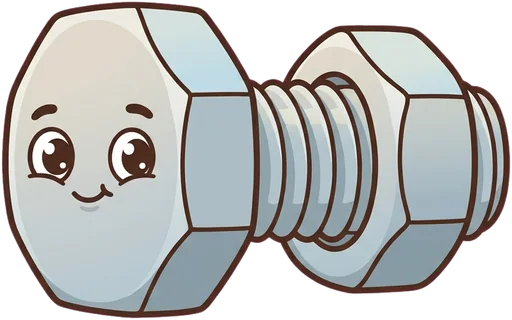
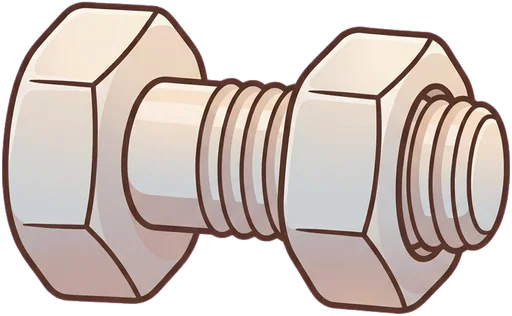
feat(junkyard): magnet words a step apart, four drifts and two mixes with fault calls, back-to-middle call, wagon wheel, owner's small junk pile, bolt and gear without faces

diff --git a/src/game/modes/junkyard-magnet.ts b/src/game/modes/junkyard-magnet.ts
@@ -18,20 +18,20 @@ const DIRS: Dir[] = ['left', 'right', 'up', 'down'];
 export const EDGE = 2;
 
 /**
- * The plates around the magnet at `place` and how hard each one's word is, never far apart: at the
- * centre the sideways ones are easy and up and down (which keep it there) two words; one step off the
- * way out is easy and the way back two words; two steps off only the way back (two words) and up and down.
+ * The plates around the magnet at `place` and how hard each one's word is, a step apart: the way out
+ * is an ordinary word, up and down (which keep it in place) a long one, and the way back to the centre
+ * a little harder still, two words. Two steps off there is no way out.
  */
 export function platesAt(place: number): Partial<Record<Dir, Ask>> {
   const off = Math.abs(place);
-  if (off === 0) return { left: 'easy', right: 'easy', up: 'two', down: 'two' };
+  if (off === 0) return { left: 'word', right: 'word', up: 'long', down: 'long' };
   const back: Dir = place < 0 ? 'right' : 'left', away: Dir = place < 0 ? 'left' : 'right';
-  if (off === 1) return { [away]: 'easy', [back]: 'two', up: 'normal', down: 'normal' };
-  return { [back]: 'two', up: 'normal', down: 'normal' };
+  if (off === 1) return { [away]: 'word', [back]: 'two', up: 'long', down: 'long' };
+  return { [back]: 'two', up: 'long', down: 'long' };
 }
 
-/** The broken controls move the magnet away by themselves after each quarter of the level (three times). */
-export const DRIFTS = 3;
+/** The broken controls move the magnet away by themselves after each fifth of the level (four times). */
+export const DRIFTS = 4;
 export function driftDue(done: number, count: number, drifts: number): boolean {
   return drifts < DRIFTS && done < count && done >= Math.ceil((count * (drifts + 1)) / (DRIFTS + 1));
 }
@@ -65,13 +65,13 @@ export type Places = Record<Dir, Dir>;
 export const OWN_PLACES: Places = { left: 'left', right: 'right', up: 'up', down: 'down' };
 
 /**
- * The plates get mixed up at two thirds of the level and once more before its end (at two words
- * before it, and at least one move after the first time). `mixedAt`: the words done at each mix so far.
+ * The plates get mixed up at half of the level and once more at three quarters (at least one move
+ * after the first time). `mixedAt`: the words done at each mix so far.
  */
 export function mixDue(done: number, count: number, mixedAt: number[]): boolean {
   if (done >= count) return false;
-  if (mixedAt.length === 0) return done >= Math.ceil((count * 2) / 3);
-  if (mixedAt.length === 1) return done >= Math.max(mixedAt[0] + 1, count - 2);
+  if (mixedAt.length === 0) return done >= Math.ceil(count / 2);
+  if (mixedAt.length === 1) return done >= Math.max(mixedAt[0] + 1, Math.ceil((count * 3) / 4));
   return false;
 }
 
@@ -207,10 +207,10 @@ function boltFallback(g: G, w: number, h: number): void {
  * a pile of screws and gears, on one of five places. Arrow plates around it carry words; a typed
  * plate moves it a step left or right, or lifts it up or dips it down and back. After each move it
  * pulls from the pile: a big piece over the centre, a small screw one step off, nothing at the edge.
- * Two steps off, the level's clock stands still until the magnet comes back. After each quarter of
- * the level the broken controls glide it away from the centre on their own. At two thirds of the
- * level and once more before its end the plates swirl round the magnet to mixed places, none on its
- * own side, so the child reads the arrow, not the side.
+ * Two steps off, the level's clock stands still until the magnet comes back. After each fifth of
+ * the level the broken controls glide it away from the centre on their own. At half of the level
+ * and at three quarters the plates swirl round the magnet to mixed places, none on its own side, so
+ * the child reads the arrow, not the side. Each fault calls out by the magnet.
  */
 export class MagnetMode extends HeroMode {
   readonly world = 'junkyard';
@@ -283,6 +283,7 @@ export class MagnetMode extends HeroMode {
     this.places = mixedPlaces(this.places, (list) => this.L.rng.pick(list));
     this.mixK = 0;
     this.L.sfx('pop');
+    this.fault();
     this.L.tweens.add(this.L.reduceMotion ? 0.01 : MIX_S, (k) => { this.mixK = k; }, ease.inOutQuad, () => {
       this.mixK = null;
       for (const p of this.plates) p.tg.selectable = true;
@@ -307,7 +308,7 @@ export class MagnetMode extends HeroMode {
       this.pull();
       if (this.done >= this.L.count) return this.end();
       const next = () => {
-        if (Math.abs(this.place) >= EDGE && hintAt(++this.edgeVisits)) this.L.say(t('story.magnetBack'), 4);
+        if (Math.abs(this.place) >= EDGE) this.atEdge();
         this.showPlates();
       };
       if (driftDue(this.done, this.L.count, this.drifts)) this.driftAway(next);
@@ -315,10 +316,25 @@ export class MagnetMode extends HeroMode {
     });
   }
 
+  /** At the edge: the first time he calls to come back, then the hint now and then. */
+  private atEdge(): void {
+    if (++this.edgeVisits === 1) {
+      const spot = this.heroSpot();
+      this.L.shout(t('story.magnetCentre'), spot.x, spot.y);
+    }
+    if (hintAt(this.edgeVisits)) this.L.say(t('story.magnetBack'), 4);
+  }
+
+  /** A fault of the controls calls out by the magnet. */
+  private fault(): void {
+    this.L.shout(pickLine('story.magnetFault'), this.magnetX, this.magnetY - MAGNET_H * 0.75);
+  }
+
   /** The controls break for a moment: the magnet hums and glides away from the centre on its own. */
   private driftAway(then: () => void): void {
     this.drifts++;
     this.L.sfx('bzzt');
+    this.fault();
     const to = this.L.rng.pick(driftPlaces(this.place));
     this.slide(to, MOVE_S + DRIFT_STEP_S * (Math.abs(to - this.place) - 1), then);
   }

diff --git a/src/game/modes/idle.test.ts b/src/game/modes/idle.test.ts
@@ -1149,24 +1149,24 @@ describe('the junkyard', () => {
     expect([0, 0.32, 1 / 3, 0.5, 2 / 3, 1].map(pileStage)).toEqual([0, 0, 1, 1, 2, 2]);
   });
 
-  it("the magnet's plates: easy sideways at the centre, the way out easy and the way back two words off it, no way out at the edge", async () => {
+  it("the magnet's plates: an ordinary word out, a long one up and down, two words back to the centre, no way out at the edge", async () => {
     const { platesAt, moved, pullAt } = await import('./junkyard-magnet');
-    expect(platesAt(0)).toEqual({ left: 'easy', right: 'easy', up: 'two', down: 'two' });
-    expect(platesAt(-1)).toEqual({ left: 'easy', right: 'two', up: 'normal', down: 'normal' });
-    expect(platesAt(1)).toEqual({ right: 'easy', left: 'two', up: 'normal', down: 'normal' });
-    expect(platesAt(-2)).toEqual({ right: 'two', up: 'normal', down: 'normal' });
-    expect(platesAt(2)).toEqual({ left: 'two', up: 'normal', down: 'normal' });
+    expect(platesAt(0)).toEqual({ left: 'word', right: 'word', up: 'long', down: 'long' });
+    expect(platesAt(-1)).toEqual({ left: 'word', right: 'two', up: 'long', down: 'long' });
+    expect(platesAt(1)).toEqual({ right: 'word', left: 'two', up: 'long', down: 'long' });
+    expect(platesAt(-2)).toEqual({ right: 'two', up: 'long', down: 'long' });
+    expect(platesAt(2)).toEqual({ left: 'two', up: 'long', down: 'long' });
     expect([moved(0, 'left'), moved(-1, 'left'), moved(1, 'up'), moved(2, 'down'), moved(-2, 'right')]).toEqual([-1, -2, 1, 2, -1]);
     expect([-2, -1, 0, 1, 2].map(pullAt)).toEqual([null, 'small', 'big', 'small', null]);
   });
 
-  it('the magnet drifts away from the centre on its own after each quarter of the level, three times', async () => {
+  it('the magnet drifts away from the centre on its own after each fifth of the level, four times', async () => {
     const { driftDue, driftPlaces } = await import('./junkyard-magnet');
     expect([2, 3].map((d) => driftDue(d, 12, 0))).toEqual([false, true]);
-    expect([5, 6, 9].map((d) => driftDue(d, 12, [5, 6, 9].indexOf(d) === 2 ? 2 : 1))).toEqual([false, true, true]);
-    expect([driftDue(11, 12, 3), driftDue(12, 12, 2)]).toEqual([false, false]);
+    expect([4, 5, 7, 8, 9, 10].map((d, i) => driftDue(d, 12, i < 2 ? 1 : i < 4 ? 2 : 3))).toEqual([false, true, false, true, false, true]);
+    expect([driftDue(11, 12, 4), driftDue(12, 12, 3)]).toEqual([false, false]);
     expect([driftPlaces(0), driftPlaces(-1), driftPlaces(1), driftPlaces(2)]).toEqual([[-2, -1, 1, 2], [-2, 2], [-2, 2], [-2]]);
-    // Played to its end, the magnet drifted off three times.
+    // Played to its end, the magnet drifted off four times.
     const L = levelRuntime(levelById('w6-3')!);
     const m = new MagnetMode(L);
     mode = m;
@@ -1178,16 +1178,16 @@ describe('the junkyard', () => {
         if (res.kind === 'done') m.onDone(res.target);
       }
     }
-    expect([m.progress(), (m as any).drifts]).toEqual([1, 3]);
+    expect([m.progress(), (m as any).drifts]).toEqual([1, 4]);
   });
 
-  it('the plates mix at two thirds and once more two words before the end, never on their own side or where they stood', async () => {
+  it('the plates mix at half and at three quarters of the level, never on their own side or where they stood', async () => {
     const { mixDue, mixedPlaces, OWN_PLACES } = await import('./junkyard-magnet');
-    expect([7, 8].map((d) => mixDue(d, 12, []))).toEqual([false, true]);
-    expect([9, 10, 11, 12].map((d) => mixDue(d, 12, [8]))).toEqual([false, true, true, false]);
-    expect(mixDue(11, 12, [8, 10])).toBe(false);
+    expect([5, 6].map((d) => mixDue(d, 12, []))).toEqual([false, true]);
+    expect([8, 9, 12].map((d) => mixDue(d, 12, [6]))).toEqual([false, true, false]);
+    expect(mixDue(11, 12, [6, 9])).toBe(false);
     // A short level: the second mix still comes a move after the first.
-    expect([mixDue(4, 6, []), mixDue(4, 6, [4]), mixDue(5, 6, [4])]).toEqual([true, false, true]);
+    expect([mixDue(3, 6, []), mixDue(4, 6, [4]), mixDue(5, 6, [4])]).toEqual([true, false, true]);
     const dirs = ['left', 'right', 'up', 'down'] as const;
     let before = OWN_PLACES;
     for (let i = 0; i < 20; i++) {

diff --git a/src/game/modes/junkyard-wake.ts b/src/game/modes/junkyard-wake.ts
@@ -70,10 +70,10 @@ const BIN_GAP = 100;
 /** The last bin is this far from the stage's right edge at least, and this far right of him at most (a wide stage keeps the scene together). */
 const BIN_EDGE = 70;
 const BIN_FROM_HERO = 900;
-/** The things that pop off the pile and their heights, each about its size next to the tire (the first two draw as a tire while a picture is missing). */
-const THINGS = ['obj-tire', 'obj-bike-wheel', 'obj-crate', 'obj-can', 'obj-spring', 'obj-nut', 'obj-screw'];
-const THING_INKS = ['#3a3a3e', '#3a3a3e', '#c08a52', '#b9c2cc', '#8a8f98', '#9aa0a8', '#a9b1bb'];
-const THING_H = [56, 64, 50, 34, 42, 24, 30];
+/** The things that pop off the pile and their heights, each about its size next to the tire (the first three, wheels, draw as a tire while a picture is missing). */
+const THINGS = ['obj-tire', 'obj-bike-wheel', 'obj-wagon-wheel', 'obj-crate', 'obj-can', 'obj-spring', 'obj-nut', 'obj-screw'];
+const THING_INKS = ['#3a3a3e', '#3a3a3e', '#8a5a32', '#c08a52', '#b9c2cc', '#8a8f98', '#9aa0a8', '#a9b1bb'];
+const THING_H = [56, 64, 66, 50, 34, 42, 24, 30];
 /** Seconds of a thing's hop off the pile and roll into its bin, and of a slipped thing's fall onto the pile. */
 const OUT_S = 1.6;
 const OUT_HOP = 0.6;
@@ -103,7 +103,7 @@ export function pileLayout(vw: number): { pile: number; bins: number[] } {
 
 /** A thing off the pile while its picture is missing: a tire, or a small rounded block in the thing's colour. */
 function thingFallback(kind: number) {
-  if (kind <= 1) return tireFallback;
+  if (kind <= 2) return tireFallback;
   return (g: G, w: number, h: number): void => {
     g.save();
     g.fillStyle = THING_INKS[kind];

diff --git a/src/game/modes/kit/ask.ts b/src/game/modes/kit/ask.ts
@@ -1,7 +1,7 @@
 import type { LevelRuntime } from '../../runtime';
 
-/** How hard a crossroads' activation word is, easiest first. */
-export const ASKS = ['tiny', 'easy', 'normal', 'two', 'twoLong', 'extreme'] as const;
+/** How hard a crossroads' activation word is, easiest first ('word': one of any length, 'long': the longest of three). */
+export const ASKS = ['tiny', 'easy', 'normal', 'word', 'long', 'two', 'twoLong', 'extreme'] as const;
 export type Ask = (typeof ASKS)[number];
 
 /** At a crossroads with an easier way out, this many slips in one word bring a slightly easier one instead (and a call to slow down). */
@@ -9,15 +9,22 @@ export const EASIER_AFTER = 2;
 
 /** An activation word of the asked difficulty. */
 export function askWord(L: LevelRuntime, ask: Ask): string {
-  const w = (n: number) => L.word(n, 1);
+  const w = (n: number | undefined) => L.word(n, 1);
   switch (ask) {
     case 'tiny': return w(2);
     case 'easy': return w(3);
     case 'normal': return w(5);
+    case 'word': return w(undefined);
+    case 'long': return longest([w(undefined), w(undefined), w(undefined)]);
     case 'two': return `${w(5)} ${w(5)}`;
     case 'twoLong': return `${w(8)} ${w(8)}`;
     case 'extreme': return L.word(undefined, 4, 3);
   }
+}
+
+/** The longest of the words, the first of equal ones. */
+function longest(words: string[]): string {
+  return words.reduce((a, b) => (b.length > a.length ? b : a));
 }
 
 /** One step down the ladder (the easiest stays). */

diff --git a/assets-src/PROMPTS.md b/assets-src/PROMPTS.md
@@ -59,8 +59,8 @@ Notes from real Gemini runs; add new ones here.
 - A crate that a game must fill from the side: an "open top" prompt drew a plain open box. Ask for the closed object seen from the front-left and say nothing about the hidden side; Gemini then draws no right wall.
 - A motion word on an object ("bouncing", "running") makes Gemini add arms and legs. Say
   "no arms, no legs" when the object should stay an object.
-- The common prompt's "friendly faces ... where the object has a face" gives a face to things
-  that should have none (a stone of the fire pit). Say "NO face, no eyes" for every thing.
+- Until 2026-11-16 the common prompt had a "friendly faces ... where the object has a face"
+  sentence that gave faces to things (a fire-pit stone, a bolt, a gear); now it forbids them.
 - A word for a part is taken literally: "a pale cream heart" (the flame's core) drew a heart
   shape. Name the shape instead ("a soft pale cream teardrop core").
 - A near band the owner drew as one tall picture kept a soft pink halo on its grass tips that no
@@ -72,9 +72,8 @@ Notes from real Gemini runs; add new ones here.
 - A vague technical object ("a round gate with three panels") turns into a character with a
   face. Describe the shape concretely (material, how the parts are split, where they meet),
   add "no face" and "strictly front view, symmetrical".
-- The common sprite prompt ("faces where the object has a face", "side view facing right")
-  gives flat things like a picture frame a face and a skewed shape. For such objects say
-  "no face, no eyes" and "strictly front view, not tilted".
+- The common sprite prompt's "side view facing right" gives flat things like a picture frame
+  a skewed shape. For such objects say "strictly front view, not tilted".
 - When the game draws a state itself (battery charge bars, a glowing ring), ask for the
   empty or neutral state, otherwise Gemini fills it with colors.
 - The "flat" background is never perfectly flat: magenta varies by about 40 in the green
@@ -576,7 +575,7 @@ flat storybook style and no longer apply.
 
 ### Common prompt (replace OBJECT and BG)
 ```
-Cute, soft 2D children's storybook illustration, flat vector style with gentle gradients, rounded friendly shapes, soft dark-brown outlines (not black), warm pastel palette, light soft shading. Friendly faces with big eyes and small smiles where the object has a face. Calm, never scary, suitable for children and young teens aged 10 to 15. No text, no letters, no watermark.
+Cute, soft 2D children's storybook illustration, flat vector style with gentle gradients, rounded friendly shapes, soft dark-brown outlines (not black), warm pastel palette, light soft shading. Things are plain things: NO faces, NO eyes, no mouth on objects; only animals and characters have faces. Calm, never scary, suitable for children and young teens aged 10 to 15. No text, no letters, no watermark.
 
 A single game object, shown alone: OBJECT. Side view facing right unless said otherwise, centered, full object visible, wide empty margin. Background: one perfectly flat solid pure BG, no gradient, no shadow, no floor, no other objects. Square image.
 ```
@@ -1048,6 +1047,7 @@ Hand-drawn Japanese anime background art, clearly a drawing and not a photo: ver
 | `obj-can.jpg` | (redone 2026-11-16, no face) as the tire: ONE old rusty tin can standing. NO face, NO eyes, no mouth: it is a plain thing | magenta |
 | `obj-spring.jpg` | (redone 2026-11-16, no face) as the tire: ONE big coiled metal spring standing upright, thick wire, few turns. NO face, NO eyes, no mouth, no arms, no legs: it is a plain thing (no "bouncing") | magenta |
 | `obj-bike-wheel.jpg` | (2026-11-16) as the tire: ONE old bicycle wheel with thin spokes and a dark tire, a little bent. NO face, NO eyes, no mouth: it is a plain thing. Strictly side view of the wheel as a round disc | magenta |
+| `obj-wagon-wheel.jpg` | (the owner's picture, 2026-11-16; a junk thing in level 4) an old wooden wagon wheel seen straight from the side: a rim of wooden pieces with iron bands and nails, six wooden spokes, a round hub, no face | magenta |
 | `obj-cable-knot.jpg` | a big tangled knot of soft colorful cables with a friendly face | magenta |
 | | **World 6 rework (plan `.todo/junkyard-world.md`, 2026-11-15):** the section 4 prompt with "NO face, NO eyes, no mouth: it is a plain thing." instead of its friendly-faces sentence, and "no numbers" added to its no-text sentence | |
 | `obj-gear-1.jpg` | ONE old golden gear (warm gold #E8B848, darker #B8862E), a little worn, with a round hole in the middle. Strictly front view, not tilted; NOTHING else (done, first try) | magenta |
@@ -1064,11 +1064,11 @@ Hand-drawn Japanese anime background art, clearly a drawing and not a photo: ver
 | `obj-screw-pile.jpg` | ONE low wide pile of old screws, nuts and small gears in blue-grey steel (#A9B7C6, darker #6F7F92) with a few copper and brass ones, about three times wider than tall. Side view; NOTHING else: no ground, no grass (done, first try) | magenta |
 | `obj-junk-pile-1.jpg` | (2026-11-16, the first and biggest stage) **attach the old pile 1 (now `obj-junk-pile-2.jpg`)**: "the same pile, in exactly the same style, but bigger: add a few more screws lying on the ground in front of it, more metal sheets leaning on it, and a few more pipes on top. Everything in it is a plain thing: NO faces, NO eyes, no mouth. Side view, a bit wider than tall; NOTHING else: no grass, no ground, no shadow" | magenta |
 | `obj-junk-pile-2.jpg` | (the first pile until 2026-11-16, now the middle stage) ONE big pile of mixed old things in a junkyard: a wooden crate, an old tire, a rusty tin can, a bent pipe, a wheel, a spring and a metal plate, heaped together, a bit wider than tall. Side view; NOTHING else: no grass, no ground (done, first try) | magenta |
-| `obj-junk-pile-3.jpg` | (2026-11-16, the smallest stage) **no attachment**: a small low heap of old junk made of only these things: an old dark tire lying in an old cardboard box at the bottom, a metal spring, a small wheel and one smaller rusty grey metal sheet at the bottom; no pipes, no tin cans; NO faces, NO eyes; clearly wider than tall. Side view; NOTHING else: no grass, no ground | magenta |
+| `obj-junk-pile-3.jpg` | (the smallest stage; the owner's picture, 2026-11-16) a small heap of old rusty junk, a bit wider than tall: bent pipes and rusty cans on top, metal sheets behind, an old radio, a toaster, springs and two light bulbs in front, no faces | magenta |
 | `robot-broken-lying.jpg` | **attach `robot-broken.jpg`**, the section 4 prompt without its face sentence: "the same small round robot as in the attached picture, in exactly the same drawing style and colors (light grey-blue metal body, soft rust spots, one leg missing, bent antenna with a tiny orange ball, small claw hands, rivets), but switched off and lying flat on his back on the ground, seen from the side: his head on the left, his one leg on the right, his body horizontal, arms resting at his sides. The body pose must be completely different from the attached picture: clearly lying, not standing, not sitting. His dark glass face is dark and empty: the eyes are switched off, no glowing eyes, no light"; "no ground line" added to the background sentence (done, first try) | magenta |
 | **Workshop** | | |
-| `obj-gear.jpg` | a shiny golden gear | magenta |
-| `obj-bolt.jpg` | a big silver bolt with a nut | magenta |
+| `obj-gear.jpg` | (redone 2026-11-16, no face; first try) ONE shiny golden gear (warm gold), thick, seen a little from the side so its thickness shows, with a round hub and a round hole in the middle. NO face, NO eyes, no mouth: it is a plain thing; "no numbers" added | magenta |
+| `obj-bolt.jpg` | (redone 2026-11-16, no face; first try) ONE big silver bolt with a hexagonal head and a short threaded shank, with a hexagonal silver nut screwed onto the shank, lying on its side. NO face, NO eyes, no mouth: it is a plain thing; "no numbers" added | magenta |
 | `obj-wheel.jpg` | a small rubber wheel | magenta |
 | `obj-antenna.jpg` | a short robot antenna with a yellow ball on top | magenta |
 | `obj-battery.jpg` | a big friendly battery with four empty charge bars on its side | magenta |

diff --git a/.specify/game/mechanics.md b/.specify/game/mechanics.md
@@ -143,11 +143,13 @@
   - *Junkyard's own rules*: a missed gear on 6:1 adds two gears and their time (at most 10 words
     added, as the wind's push), the narrator says why the first time; on the magnet's crossroads
     (6:3) the level's clock stops while the magnet is two steps off the centre (words still
-    count) until it comes back a step, and the way back to the centre carries the harder word
-    (two short words against one, never a tiny word against a long sentence); after each quarter
-    of 6:3 the broken controls glide the magnet away from the centre on their own;
-    at two thirds of 6:3 and again two words before its end the plates are mixed up (never on
-    their own side), their words typeable once they stand.
+    count) until it comes back a step; the words are a step apart: the way out an ordinary word,
+    up and down (staying in place) a longer one, the way back to the centre a little harder still
+    (two words), never a tiny word against a long sentence; after each fifth of 6:3 the broken
+    controls glide the magnet away from the centre on their own (four times); at half and at
+    three quarters of 6:3 the plates are mixed up (never on their own side), their words typeable
+    once they stand; each fault calls out by the magnet ("Porucha!", "Grrr!"), and the first time
+    the magnet reaches the edge the character calls to bring it back to the middle.
   - *Cyclic copy* (the placeholder of every level of a world not built yet, see
     [story](story.md)): the world's own background bands, the near one drifting slowly, the character
     at his usual place, and a small sign at the top with the world's name and "Coming soon".
@@ -306,7 +308,8 @@
   the child read the arrow instead of steering by habit (owner, 2026-11-16). A gentle gap
   between the easy and the hard word keeps the choice a choice, not a jump from two letters to a
   sentence, and the magnet drifting off now and then makes steering back part of the level
-  (owner, 2026-11-16).
+  (owner, 2026-11-16); the harder way must really be harder and the way back the hardest, so
+  coming back to the middle is worth it (owner, 2026-11-16).
 - Arcade-style typing is praised as motivating; the peaceful
   variant keeps the fun without destruction or stress.
 - Overlapping words cannot be read, and a child who cannot read the word cannot type it.

diff --git a/.claude/rules/pictures.md b/.claude/rules/pictures.md
@@ -11,6 +11,7 @@ paths:
 
 # Pictures and hands
 
+- Inanimate objects never get eyes or a face (the owner, 2026-11-16); only animals and characters named as such have one.
 - Pictures come from the owner's Gemini prompts in `assets-src/PROMPTS.md`; read its "Lessons from generating" before writing or fixing a prompt and add each new lesson there. Name everyday objects plainly; exact shape words bend the pictures.
 - `npm run assets` turns raw files in `assets-src/` (not committed) into `public/assets/` and the manifest; background bands are `bg-<world>-far|mid|near`, joined to repeat with `scripts/bg-seam.mjs`.
 - Keyboard hands: the owner tunes poses in the hand tool (`/tools/hand-poser/` on the dev server); its rules are `assets-src/PROMPTS.md` section 12. Never generate poses beyond a starting point.
